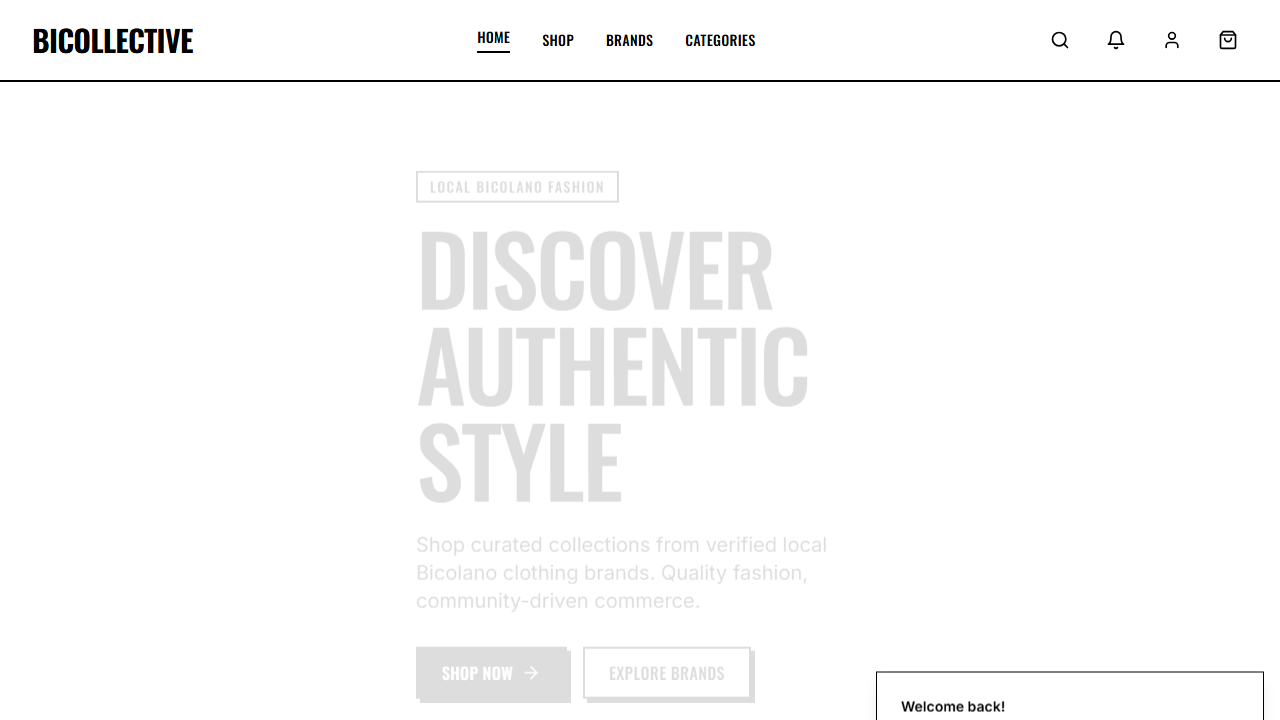
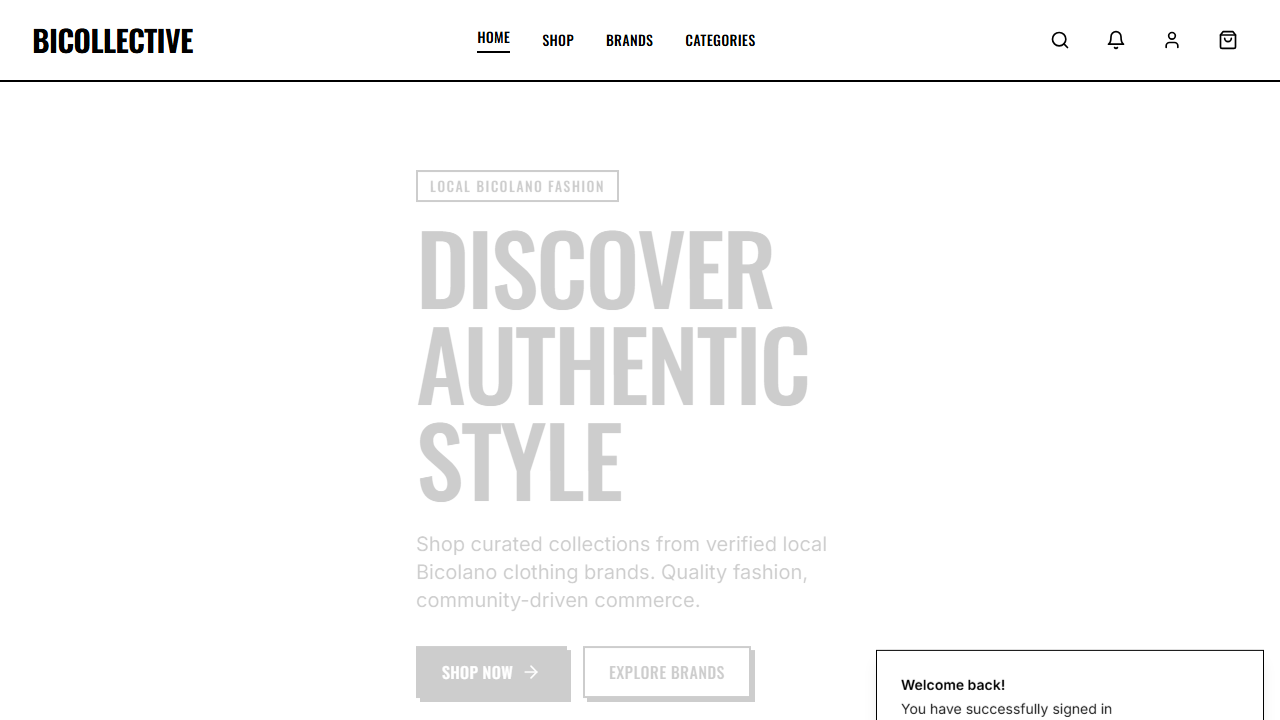
fix: CI workflow - run Vitest only on CI, fix E2E screenshot path for cross-platform compatibility, rename journals to full member names

Changed region(s): [[0.6875, 0.9167, 0.875, 1.0]]

diff --git a/src/e2e/e2e.spec.ts b/src/e2e/e2e.spec.ts
@@ -1,12 +1,18 @@
 import { test, expect } from "@playwright/test";
 import * as fs from "fs";
 import * as path from "path";
+import { fileURLToPath } from "url";
 
-// Ensure screenshot directory exists
-const screenshotDir = "C:/Users/seanjerve/OneDrive/Desktop/bicollective2026/bicollective2026/Laboratory Activity on Automated Test/screenshots";
+// Resolve __dirname equivalent for ES modules
+const __filename = fileURLToPath(import.meta.url);
+const __dirname_esm = path.dirname(__filename);
+
+// Ensure screenshot directory exists (relative path so it works on any machine)
+const screenshotDir = path.resolve(__dirname_esm, "../../Laboratory Activity on Automated Test/screenshots");
 if (!fs.existsSync(screenshotDir)) {
   fs.mkdirSync(screenshotDir, { recursive: true });
 }
+
 
 test.describe("ADET E2E Testing Suite", () => {
   // Test 1: User Login & Session Management (Kiel)